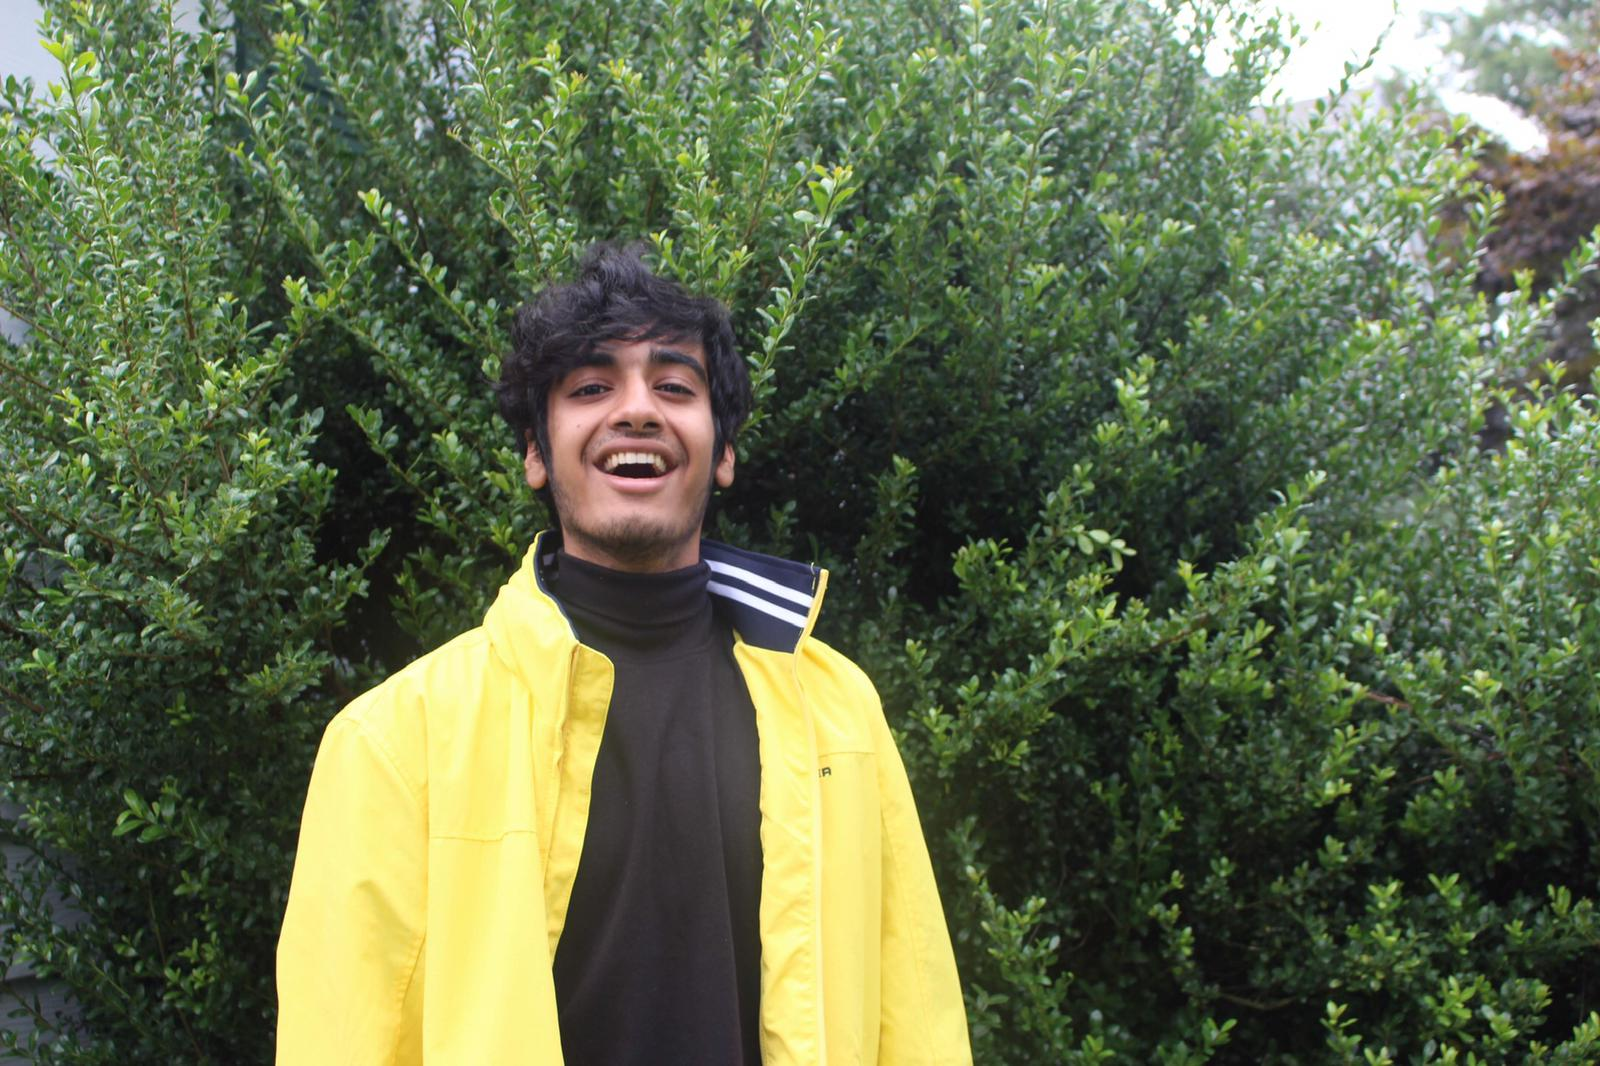
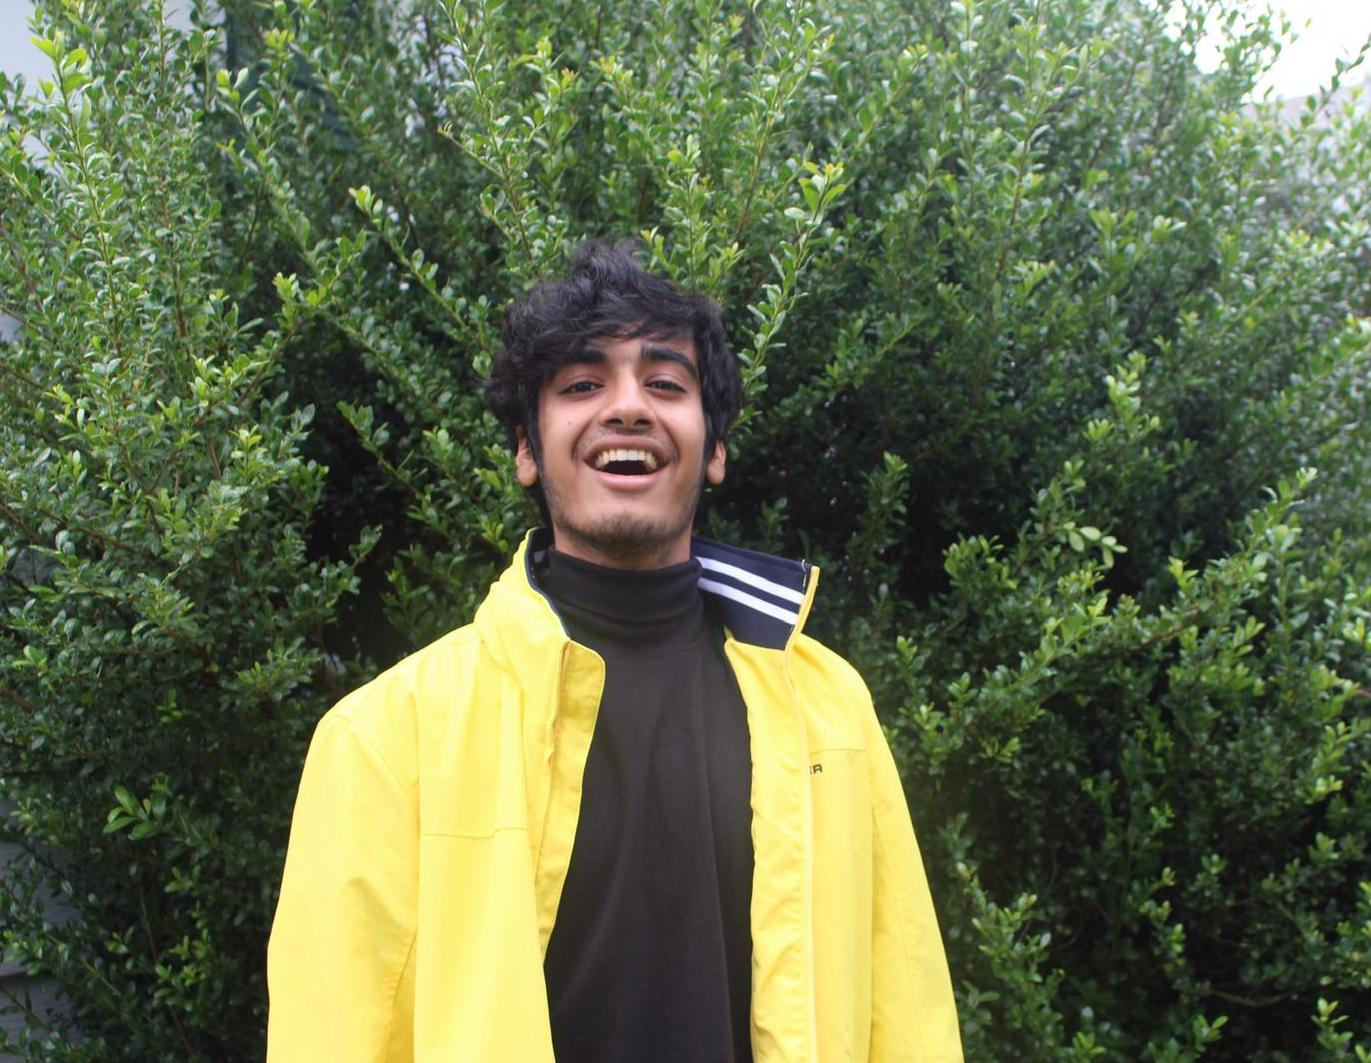
mentor 1

diff --git a/mentor1.html b/mentor1.html
@@ -56,7 +56,7 @@
 										<section class="widget thumbnails">
 											<div class="grid">
 												<div class="row gtr-50">
-													<a class="image featured"><img style="align="top"; src="images/pic01.jpg" alt="" /></a>
+													<a class="image featured"><img style="align="top"; src="images/tejantake3.jpeg" alt="" /></a>
 												</div>
 											</div>
 										</section>
@@ -68,7 +68,7 @@
 								<!-- Content -->
 									<div id="content">
 										<section class="last">
-											<p style="font-size: 30px";>hello this is a bio for mentor 1</p>
+											<p style="font-size: 30px";>Tejan is currently studying Cell Biology and Neuroscience at Rutgers University in New Brunswick. He plans on receiving his bachelors degree in 2024 and hopefully attend medical school after that. During his time at Hightstown High School, Tejan was the president of the South Asian Association and captained Hightstown's 2018 championship winning debate squad. He believes children are the future and takes great pride in helping people in any way possible. As a student of the sciences, Tejan loves to teach chemistry and biology. Outside of school, he likes to run, play golf, and listen to music.</p>
 										</section>
 									</div>
 

diff --git a/leadership.html b/leadership.html
@@ -75,7 +75,7 @@
 												<h2>Tejan Patel</h2>
 												<p>idiot</p>
 											</header>
-											<p>Tejan is currently studying Cell Biology and Neuroscience at Rutgers University in New Brunswick. He plans on receiving his bachelors degree in 2024 and hopefully attend medical school after that. During his time at Hightstown High School, Tejan was also the president of the South Asian Association and captained Hightstown's 2018 championship winning debate squad. He believes children are the future and takes great pride in helping people in any way possible. As a student of the sciences, Tejan loves to teach chemistry and biology. Outside of school, he likes to run, play golf, and listen to music.</p>
+											<p>bio</p>
 										</div>
 									</section>
 

diff --git a/mentors.html b/mentors.html
@@ -70,11 +70,11 @@
 
 								<!-- Box -->
 									<section class="box feature">
-										<a href="mentor1" class="image featured"><img src="images/pic01.jpg" alt="" /></a>
+										<a href="mentor1" class="image featured"><img src="images/tejantake3.jpeg" alt="" /></a>
 										<div class="inner">
 											<header>
-												<h2>Mentor 1</h2>
-												<p>school</p>
+												<h2>Tejan Patel</h2>
+												<p>Rutgers University</p>
 											</header>
 											
 										</div>
